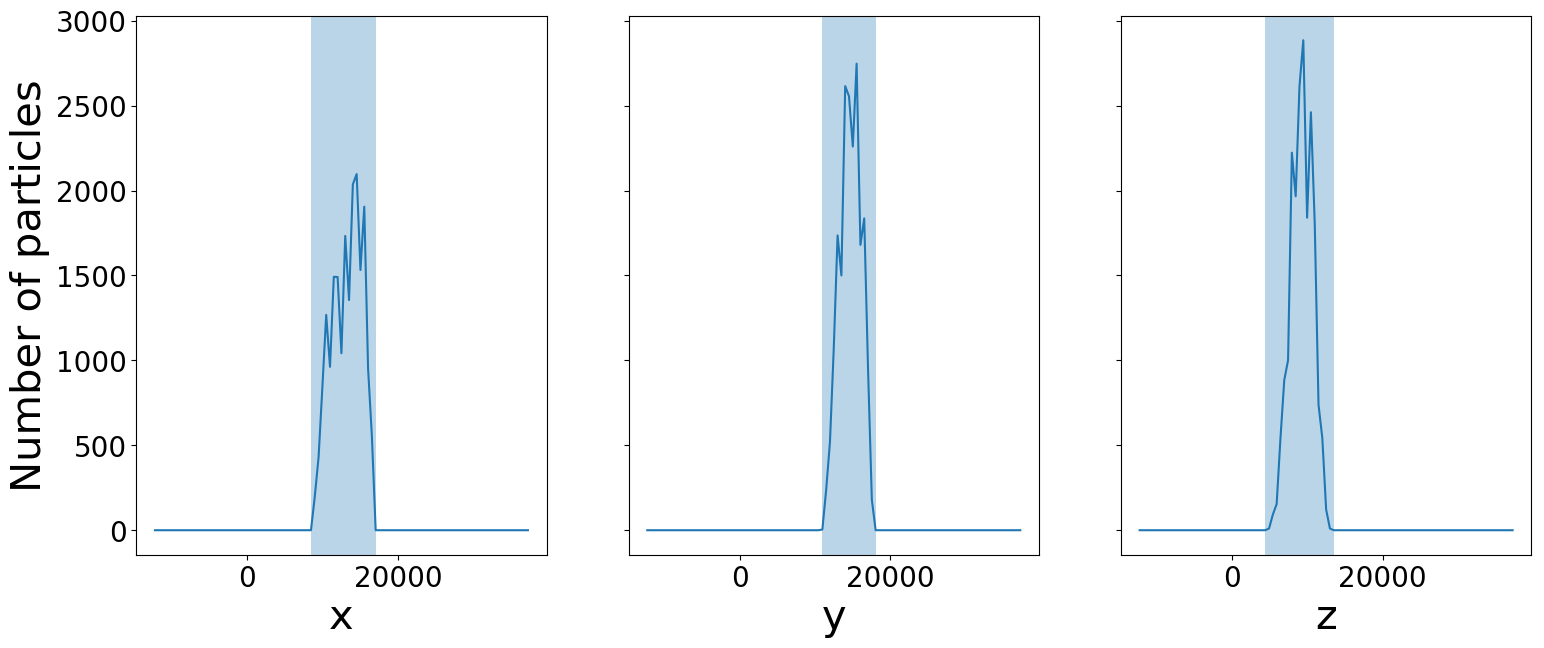
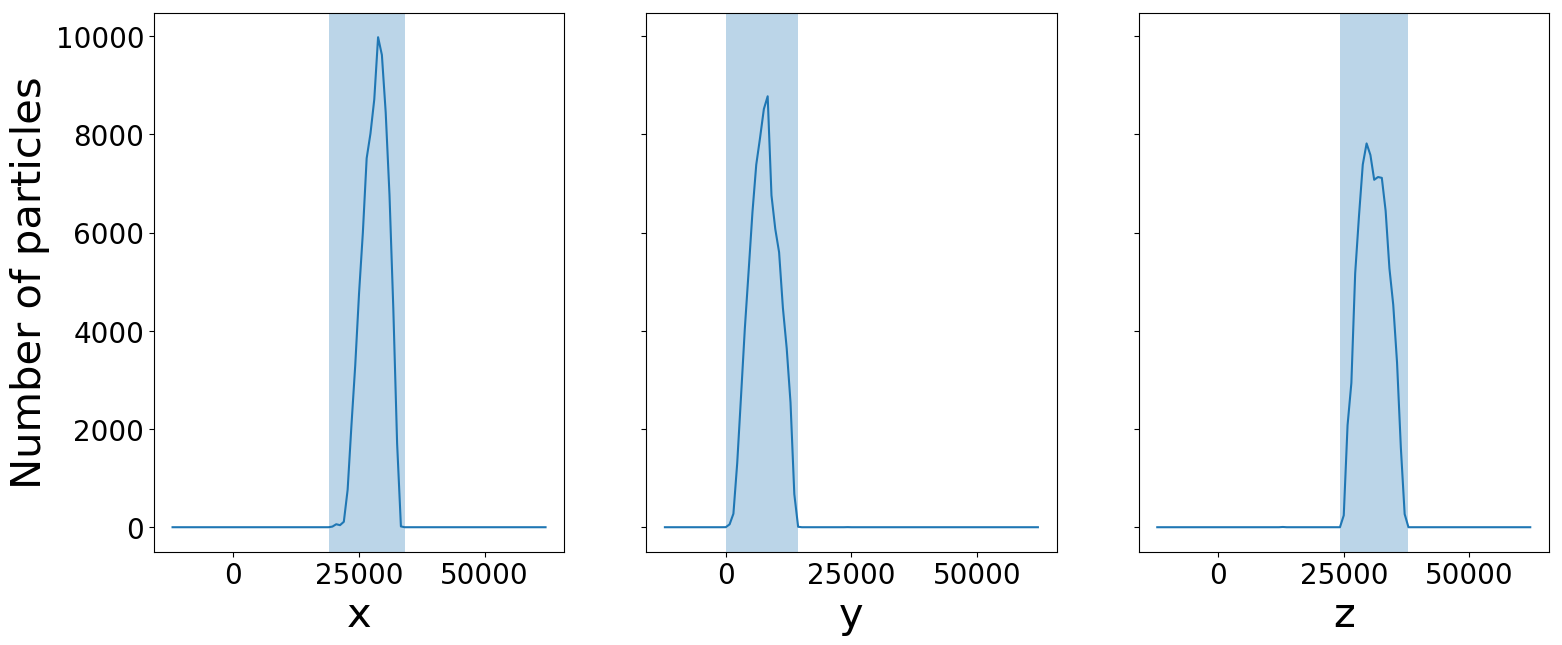
Updated codes

diff --git a/create_zoom_volume_for_a_halo.py b/create_zoom_volume_for_a_halo.py
@@ -13,6 +13,8 @@ import numpy
 
 #%pylab inline
 
+scaled_halo_centers=numpy.array([1.,1.,1.])
+
 def get_group_ids(output_path,z_current,N,group_type='group'):    
     if (group_type=='groups'):              
         masstype,output_redshift=(arepo_package.get_group_property(output_path,'GroupMassType', desired_redshift));
@@ -74,7 +76,9 @@ Coordinates_early_selected=Coordinates_early[indices_particles]
 
 initial_positions_of_halo_particles=Coordinates_in_IC[ParticleIDs]
 f,ax=plt.subplots(figsize=(10,10))
-arepo_package.make_image(group_particles,group_particles,'yz',ax,boxsize,NBINS=200,colormap='Blues_r',opacity=0.4)
+#arepo_package.make_image(group_particles,group_particles,'yz',ax,boxsize,NBINS=200,colormap='Blues_r',opacity=0.4)
+arepo_package.make_image(group_particles,group_particles,'xy',ax,boxsize,200,scaled_halo_centers,colormap='Blues_r',opacity=1,about_COM=True,REPOSITION=False)
+
 ax.tick_params(labelsize=30)
 ax.set_xlabel('$X-X_{\mathrm{COM}}$',fontsize=30)
 ax.set_ylabel('$Y-Y_{\mathrm{COM}}$',fontsize=30)
@@ -82,21 +86,23 @@ plt.savefig('halo_image.png',bbox_inches='tight')
 
 initial_positions_of_halo_particles=Coordinates_in_IC[ParticleIDs]
 f,ax=plt.subplots(figsize=(10,10))
-arepo_package.make_image(Coordinates_early_selected,group_particles,'yz',ax,boxsize,NBINS=20,colormap='Blues_r',opacity=0.4)
+#arepo_package.make_image(Coordinates_early_selected,group_particles,'yz',ax,boxsize,NBINS=20,colormap='Blues_r',opacity=0.4)
+arepo_package.make_image(Coordinates_early_selected,group_particles,'xy',ax,boxsize,200,scaled_halo_centers,colormap='Blues_r',opacity=1,about_COM=True,REPOSITION=False)
+
 ax.tick_params(labelsize=30)
 ax.set_xlabel('$X-X_{\mathrm{COM}}$',fontsize=30)
 ax.set_ylabel('$Y-Y_{\mathrm{COM}}$',fontsize=30)
 plt.savefig('halo_particles_close_to_initial_condition.png',bbox_inches='tight')
 
 f,ax=plt.subplots(1,3,figsize=(18,7),sharey=True,sharex=True)
-centers,counts,xmin,xmax=arepo_package.get_distribution(Coordinates_early_selected[:,0],100,-boxsize/2,3*boxsize/2,boxsize)
+centers,counts,xmin,xmax=arepo_package.get_distribution(Coordinates_early_selected[:,0],100,-boxsize/2,5*boxsize/2,boxsize,min_count)
 ax[0].plot(centers,counts)
 ax[0].axvspan(xmin,xmax,alpha=0.3)
 
-centers,counts,ymin,ymax=arepo_package.get_distribution(Coordinates_early_selected[:,1],100,-boxsize/2,3*boxsize/2,boxsize)
+centers,counts,ymin,ymax=arepo_package.get_distribution(Coordinates_early_selected[:,1],100,-boxsize/2,5*boxsize/2,boxsize,min_count)
 ax[1].plot(centers,counts)
 ax[1].axvspan(ymin,ymax,alpha=0.3)
-centers,counts,zmin,zmax=arepo_package.get_distribution(Coordinates_early_selected[:,2],100,-boxsize/2,3*boxsize/2,boxsize)
+centers,counts,zmin,zmax=arepo_package.get_distribution(Coordinates_early_selected[:,2],100,-boxsize/2,5*boxsize/2,boxsize,min_count)
 ax[2].plot(centers,counts)
 ax[2].axvspan(zmin,zmax,alpha=0.3)
 

diff --git a/create_config_files_for_MUSIC.py b/create_config_files_for_MUSIC.py
@@ -40,14 +40,25 @@ if not os.path.exists(path_to_generated_files+FOLDERNAME):
         print("Making new directory")
         os.makedirs(path_to_generated_files+FOLDERNAME)
         
-if not os.path.exists(path_to_generated_files+FOLDERNAME+'/'+'MUSIC'):
+#if not os.path.exists(path_to_generated_files+FOLDERNAME+'/'+'MUSIC'):
         print("Making new directory")
         print('Copying MUSIC files')
         source = "./setup_prototypes/MUSIC"
         destination = path_to_generated_files+FOLDERNAME+'/MUSIC'
         shutil.copytree(source, destination)
         #os.makedirs(path_to_generated_files+FOLDERNAME+'/'+'MUSIC')
-        
+
+if not os.path.exists(path_to_generated_files+FOLDERNAME+'/'+'DIAGNOSTICS'):
+        print("Making new directory")
+        print('Copying diagnosic files')
+        destination = path_to_generated_files+FOLDERNAME+'/DIAGNOSTICS/'
+        os.makedirs(destination)
+        shutil.copy('./distribution_of_particles_and_volume_selection.png', destination)
+        shutil.copy('./halo_image.png', destination)
+        shutil.copy('./halo_particles_close_to_initial_condition.png', destination)
+        shutil.copy('./Volume_parameters_for_MUSIC.npy', destination)
+shutil.copy('./zoom_parameters.txt', destination)
+        #os.makedirs(path_to_generated_files+FOLDERNAME+'/'+'MUSIC')        
 
 
 
